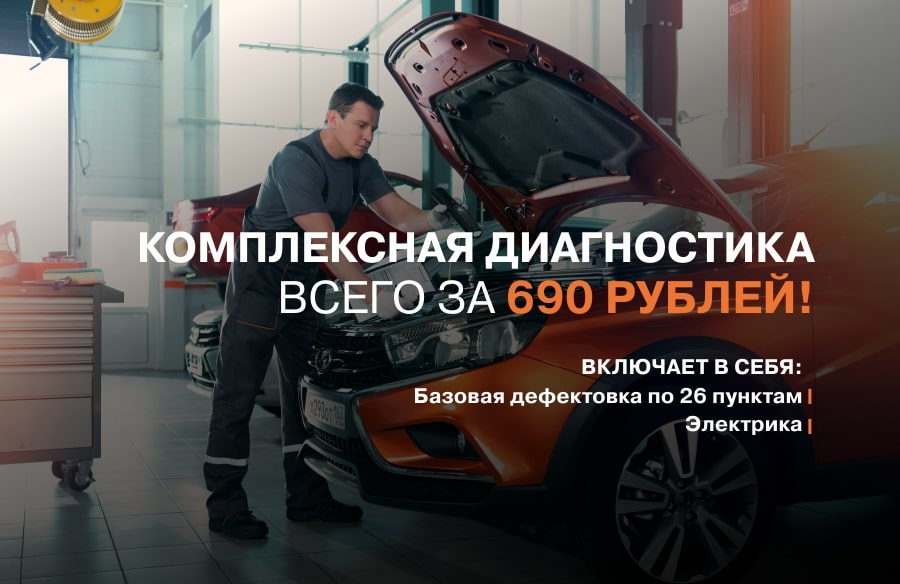
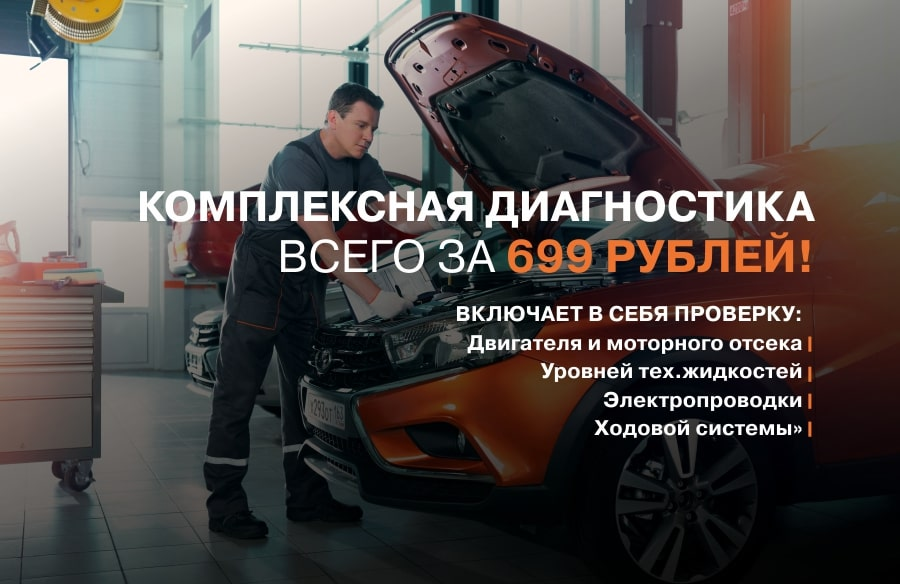
Обновил баннер #upd
#main #service #banner

Changed region(s): [[0.1556, 0.3082, 0.9022, 0.7705]]

diff --git a/components/banners/ServiceBanner.vue b/components/banners/ServiceBanner.vue
@@ -647,7 +647,7 @@ export default {
 
   .banner-button-service-6 {
     right: 9%;
-    bottom: 19%;
+    bottom: 15%;
   }
 
   .banner-button-service-7 {
